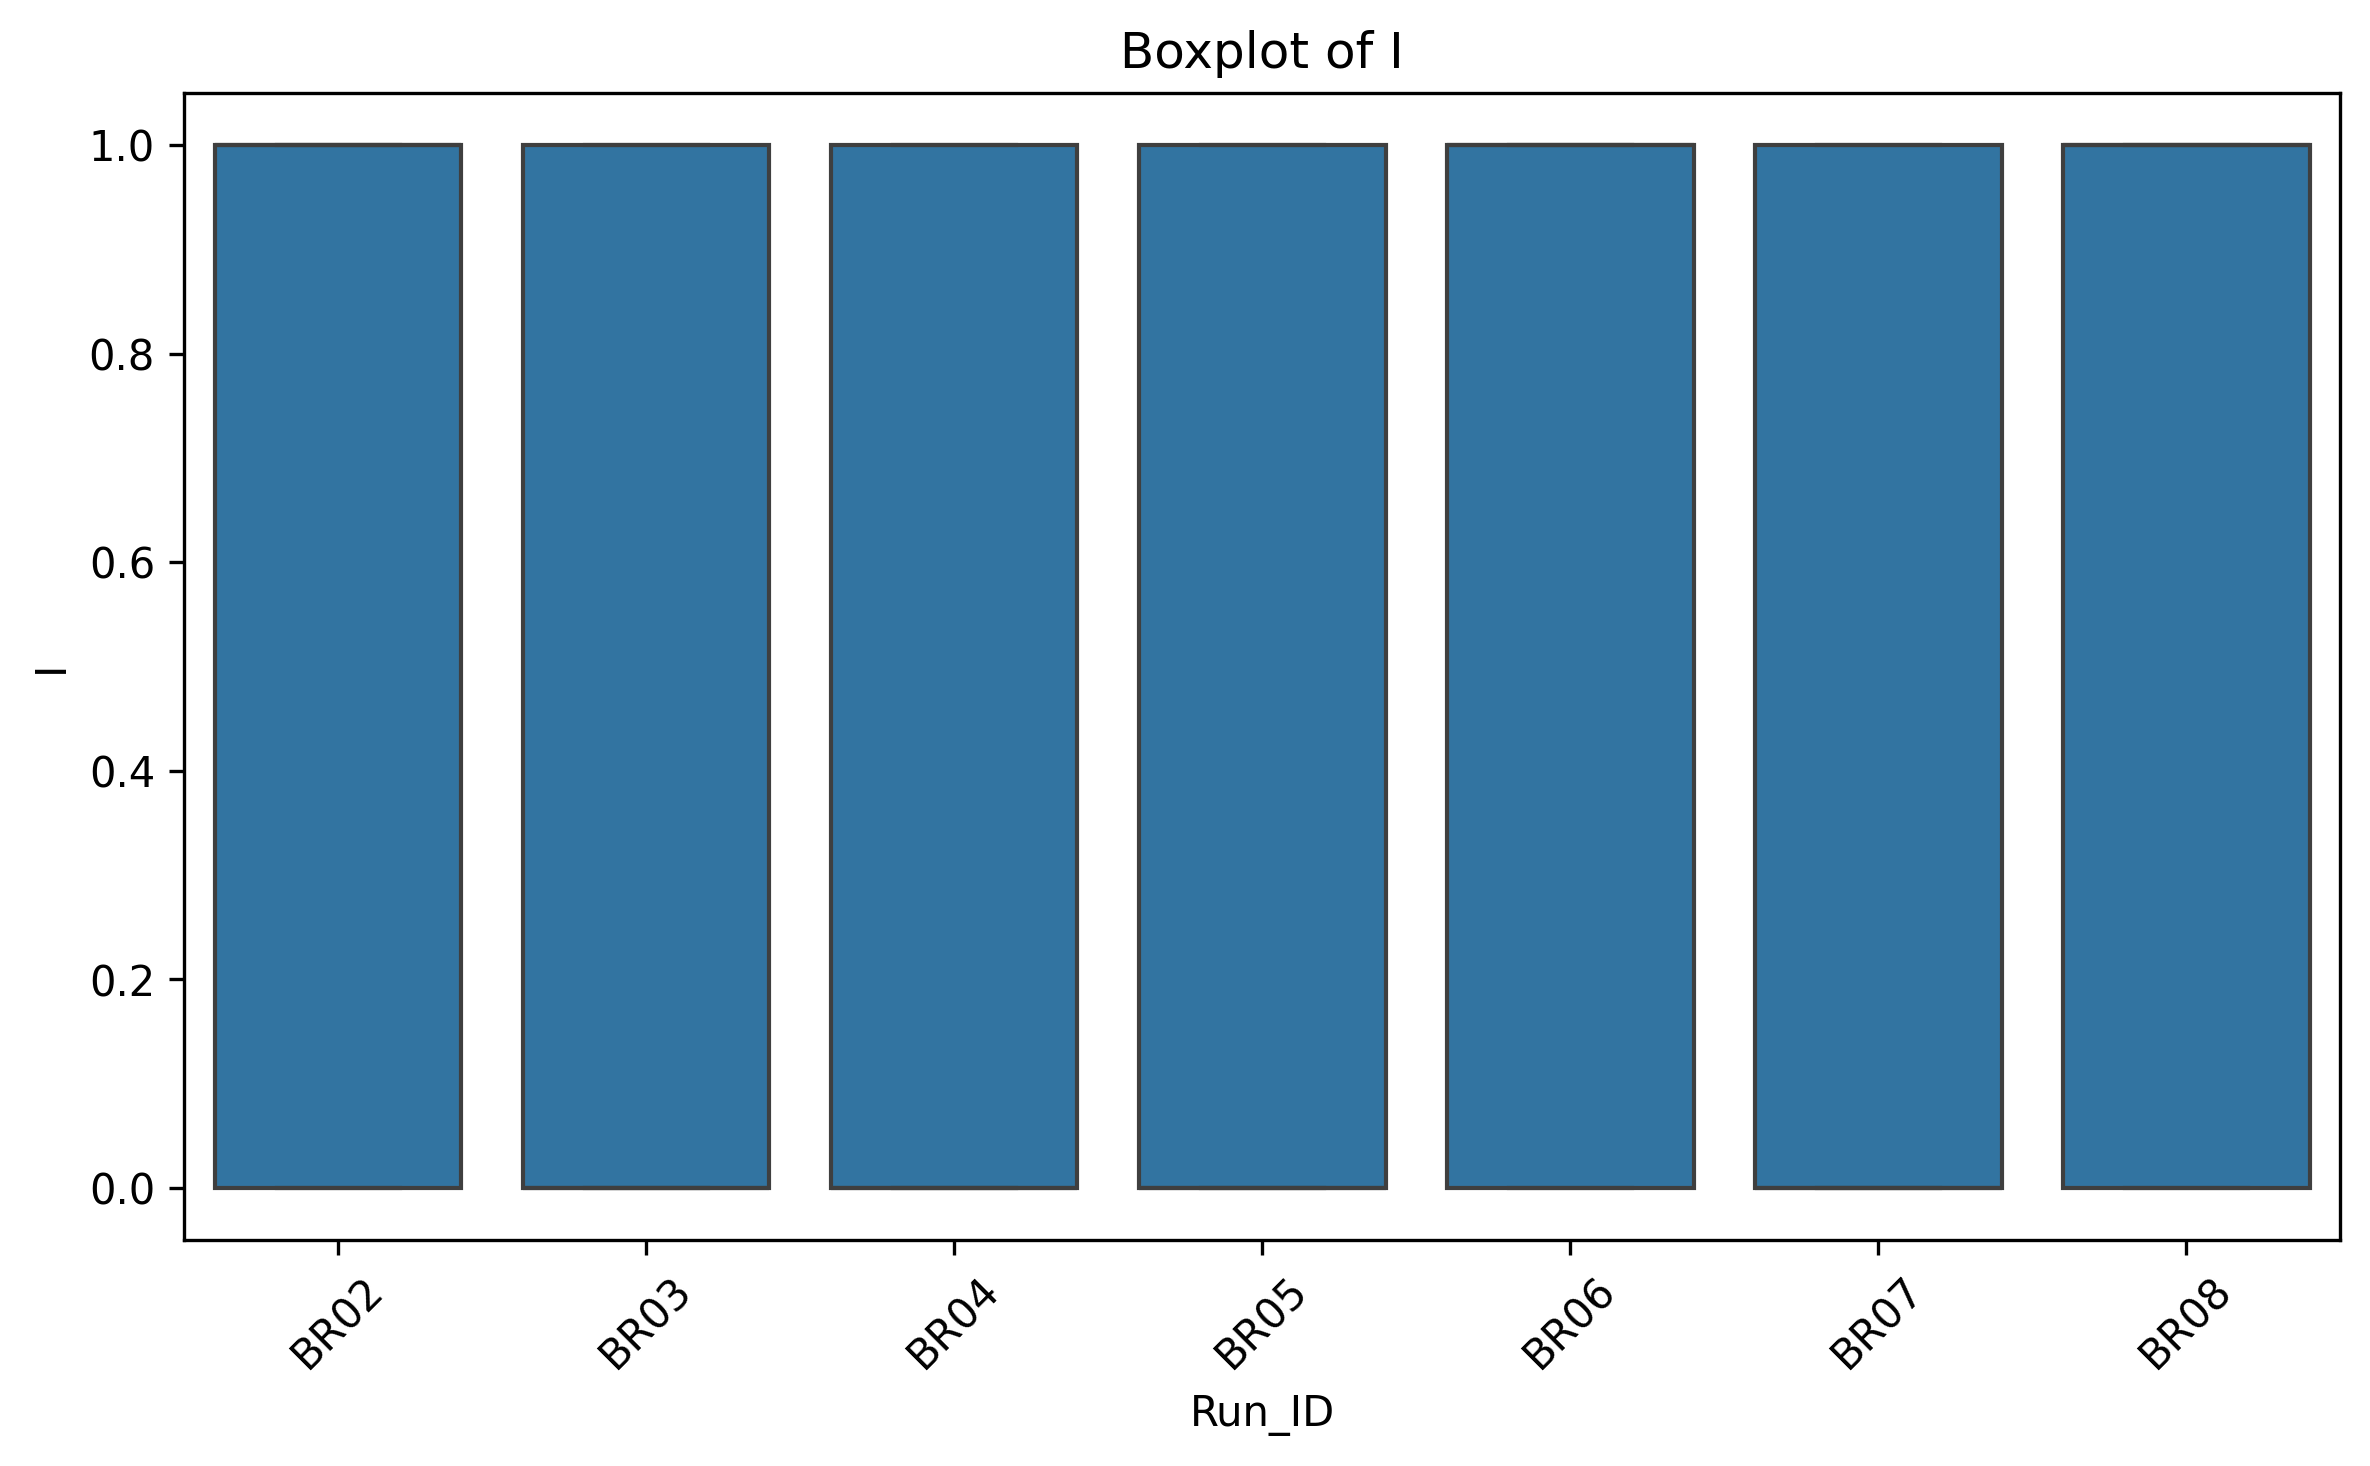
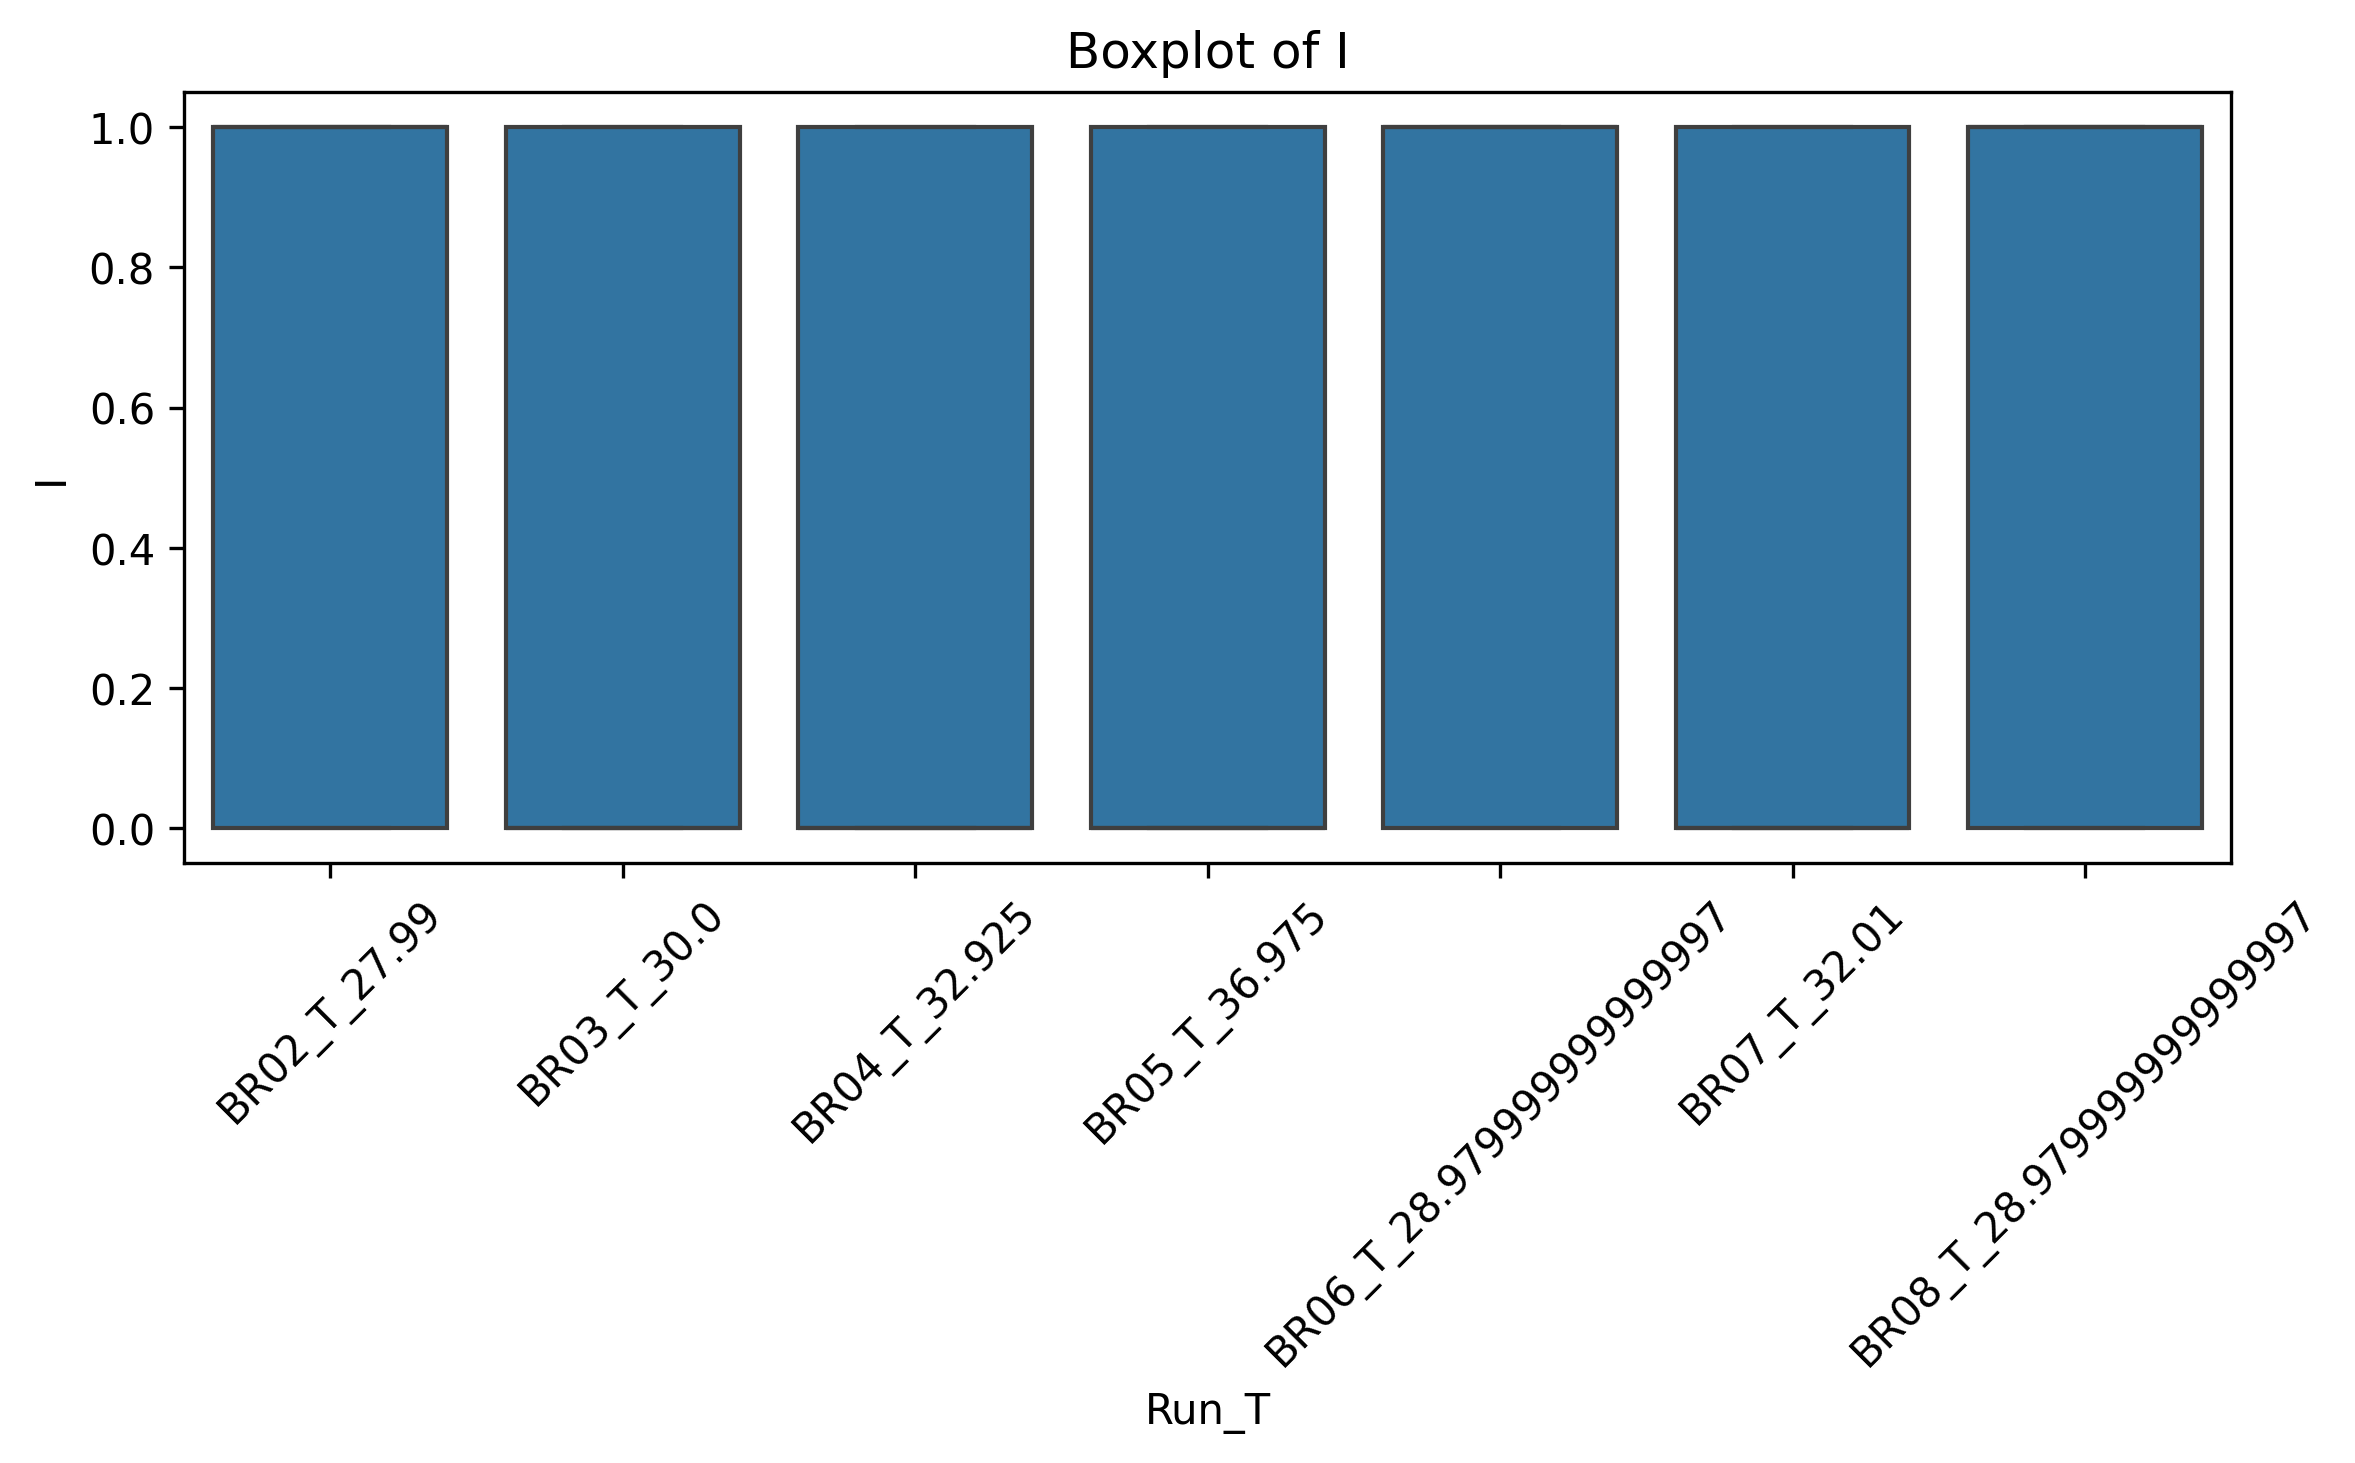
Fixing plot problems 2.0

diff --git a/fedbatch/data_analysis/preprocessing.py b/fedbatch/data_analysis/preprocessing.py
@@ -108,6 +108,24 @@ def calcular_mu_qp(df):
 
     return df
 
+
+def agregar_T_ind(df):
+
+    # Asegurar orden temporal
+    last_T = (
+        df
+        .sort_values("time")
+        .groupby("Run_ID")["T"]
+        .last()
+        .astype(str)  # convertir a no numérico
+    )
+
+    # Asignar a todas las filas
+    df["T_ind"] = df["Run_ID"].map(last_T)
+    df["Run_T"] = df["Run_ID"].astype(str) + "_T_" + df["T_ind"]
+
+    return df
+
 #------------- Heatmaps ------------------
 
 def heatmap_global(df,save_dir=None, threshold=0.8):
@@ -143,7 +161,7 @@ def heatmap_global(df,save_dir=None, threshold=0.8):
 def heatmap_per_run(df,save_dir=None, threshold=0.8):
     num_cols = get_numeric_columns(df)
 
-    for run_id, sub in df.groupby("Run_ID"):
+    for run_id, sub in df.groupby("Run_T"):
         corr = sub[num_cols].corr()
 
         fig, ax = plt.subplots(figsize=(8, 6))
@@ -196,12 +214,12 @@ def pca_global(df,save_dir=None):
     plt.close()
     # plt.show()
 
-    print("Varianza explicada:", pca.explained_variance_ratio_)
+    print("*PCA* Varianza explicada:", pca.explained_variance_ratio_)
 
 def pca_per_run(df,save_dir=None):
     num_cols = get_numeric_columns(df)
 
-    for run_id, sub in df.groupby("Run_ID"):
+    for run_id, sub in df.groupby("Run_T"):
         sub = sub[num_cols].dropna()
         if len(sub) < 2:
             continue
@@ -244,7 +262,7 @@ def boxplot_por_run(df,save_dir=None):
 
     for col in num_cols:
         plt.figure(figsize=(8, 5))
-        sns.boxplot(x="Run_ID", y=col, data=df)
+        sns.boxplot(x="Run_T", y=col, data=df)
         plt.title(f"Boxplot of {col}")
         plt.xticks(rotation=45)
         plt.tight_layout()
@@ -264,7 +282,7 @@ def get_numeric_columns(df):
 # -------------  Series temporales superpuestas --------------
 def timeseries_per_run(df, variable, save_dir=None):
     plt.figure(figsize=(8, 5))
-    for run_id, sub in df.groupby("Run_ID"):
+    for run_id, sub in df.groupby("Run_T"):
         plt.plot(sub["time"], sub[variable], label=run_id)
 
     plt.xlabel("Time")
@@ -288,7 +306,7 @@ def scatter_fun(df, x, y, save_dir=None):
         data=df,
         x=x,
         y=y,
-        hue="Run_ID",
+        hue="Run_T",
         ax=ax
     )
 

diff --git a/execution/data_analysis.py b/execution/data_analysis.py
@@ -1,11 +1,13 @@
 
 import pandas as pd
 from glob import glob
-from fedbatch.data_analysis.preprocessing import unificar_xls, run_EAD, timeseries_per_run, scatter_fun
+from fedbatch.data_analysis.preprocessing import (
+    unificar_xls, run_EAD, timeseries_per_run, scatter_fun, agregar_T_ind )
 
 # Import and Unification of data
 dataset_files = sorted(glob("data/raw/BR*.xls"))
 df = unificar_xls(dataset_files)
+df = agregar_T_ind(df)
 df.to_csv("data/processed/BR_unified.csv", index=False)
 
 # EAD
